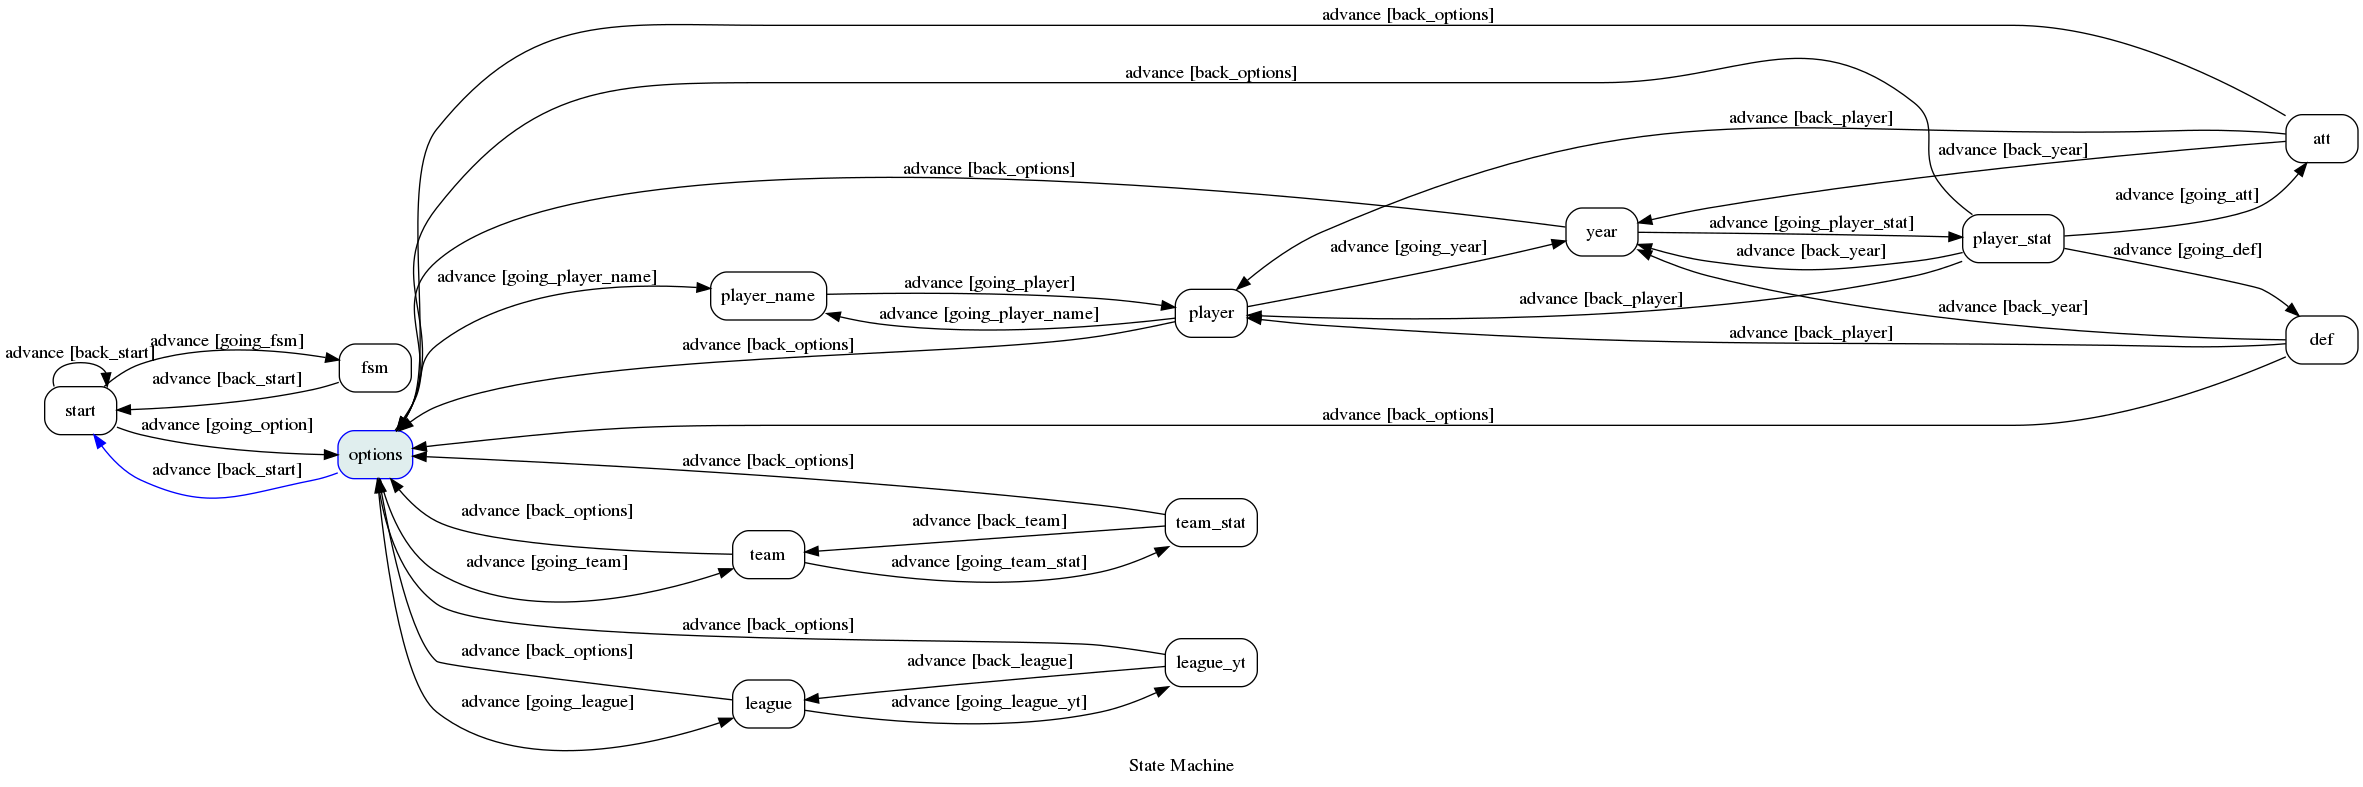
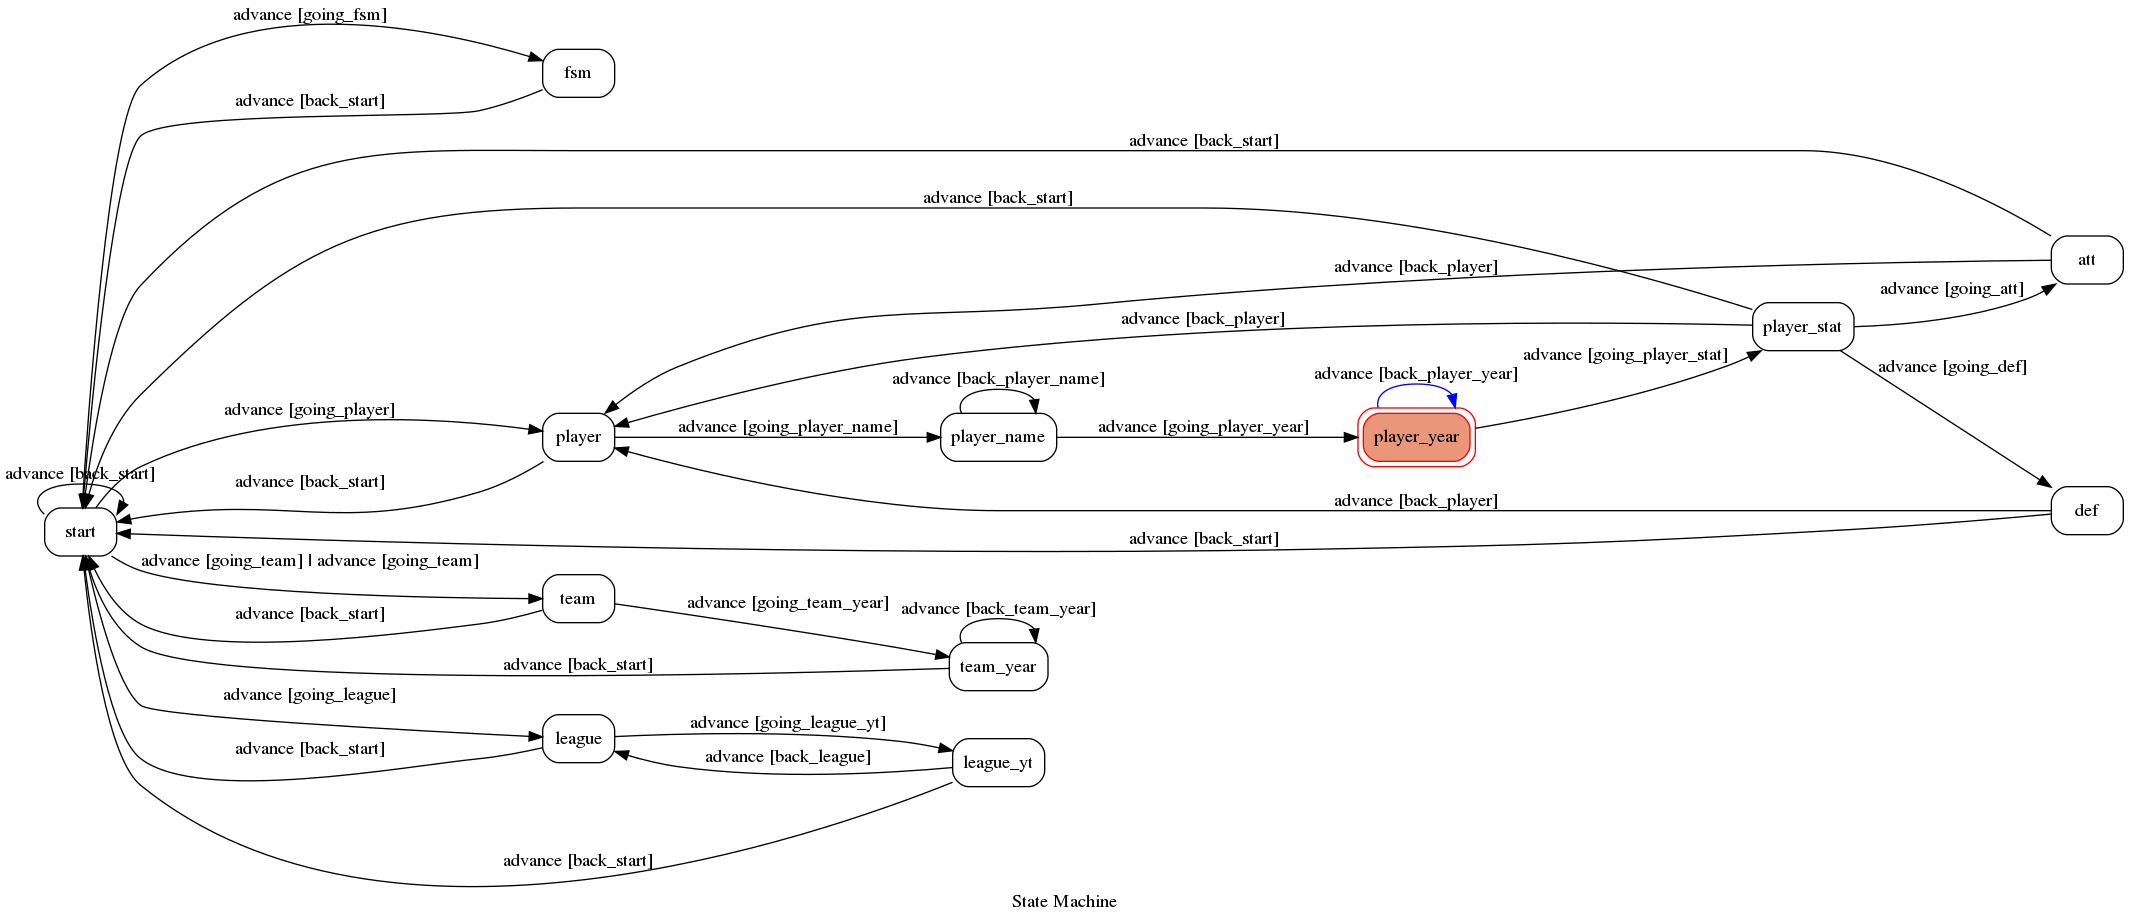
Fix some state bug

diff --git a/line_bot/fsm.py b/line_bot/fsm.py
@@ -14,7 +14,8 @@ from .msg_temp import show_pic, main_menu, table, plot, show_team
 class TocMachine(GraphMachine):
     def __init__(self, **machine_configs):
         self.machine = GraphMachine(model=self, **machine_configs)
-
+        self.name = ''
+        self.year = ''
     def back_league(self, event):
         text = event.message.text
         print('back_league', text)
@@ -72,12 +73,11 @@ class TocMachine(GraphMachine):
     def going_player(self, event):
         text = event.message.text
         print('going_player', text)
-        return text.lower() == 'player'
+        return text.lower() == 'player' #如果input是 player 就 return Ture 代表可以進入
 
     def on_enter_player(self, event): #Input the player name
         send_text_message(event.reply_token, '請輸入球員名稱')
-        text = event.message.text
-        return text.lower() == 'player'
+        return True
 
     def going_player_name(self, event):
         text = event.message.text
@@ -86,29 +86,32 @@ class TocMachine(GraphMachine):
 
     def on_enter_player_name(self, event): #Input the player name
         text = event.message.text
-        stat_ = get_player_stat(text)
-        stat_ = 0
-        if(type(stat_) == int):
+        print('name: ', text)
+        #stat_ = get_player_stat(text)
+        #stat_ = 0
+        if(text.isdigit() == True):
             send_text_message(event.reply_token, '查無此人, 請輸入正確名稱!')
-            return text.lower() == 'player_name'
-        return text.lower() == 'player_name'
+        else:
+            self.name = text
+            send_text_message(event.reply_token, '請輸入球季年份')
+            return True
 
     def going_player_year(self, event):
         text = event.message.text
-        print('going_player', text)
-        return text.lower() == 'player_year'
+        print('going_player_year', text)
+        if(self.name != ''):
+            return True
 
-    def on_enter_player_year(self, event): #Input the player name
-        name = event.message.text
-        send_text_message(event.reply_token, '請輸入球季年分')
+    def on_enter_player_year(self, event): #Input the player name\
+        name = self.name
+        print(name)
         year = event.message.text
-        if (type(year)== str):
-            send_text_message(event.reply_token, '錯誤年分')
-            return text.lower() == 'back_player_year'
+        print(year)
+        if(year.isdigit() == True):
+            send_text_message(event.reply_token, '查無此年, 請輸入正確名稱!')
+            return True
         ddd = (name, year) 
-        print('enter_player', text)
         print(ddd)
-        return True
         stat_ = get_player_stat(text)
         if(type(stat_) == int):
             send_text_message(event.reply_token, '查無此人, 請輸入正確名稱!')
@@ -121,9 +124,9 @@ class TocMachine(GraphMachine):
             send_flex_message(event.reply_token, msg_to_rep)
     
     def going_player_stat(self, event):
-        text = event.message.text
         print('going_player_stat', text)
-        return text.lower() == 'player_stat'
+        if (self.year.isdigit() == True):
+            return True
 
     def on_enter_player_stat(self, event): #Select player stats type
         text = event.message.text
@@ -156,7 +159,7 @@ class TocMachine(GraphMachine):
         return text.lower() =='team'
 
     def on_enter_team(self, event): #Choose which year's stat
-        send_text_message(event.reply_token, '請輸入球季年分')
+        send_text_message(event.reply_token, '請輸入球季年份')
         text = event.message.text 
         return text.lower() =='team'
 
